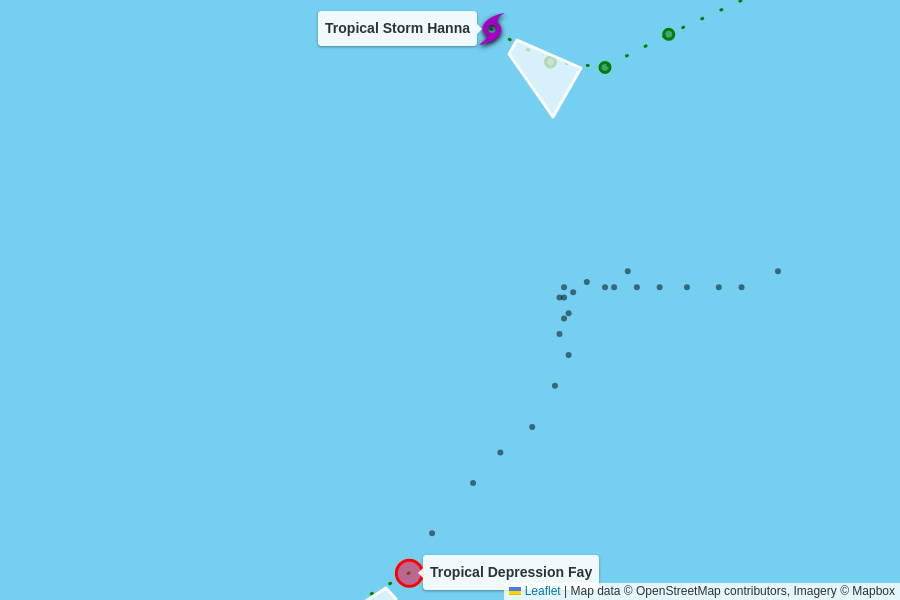
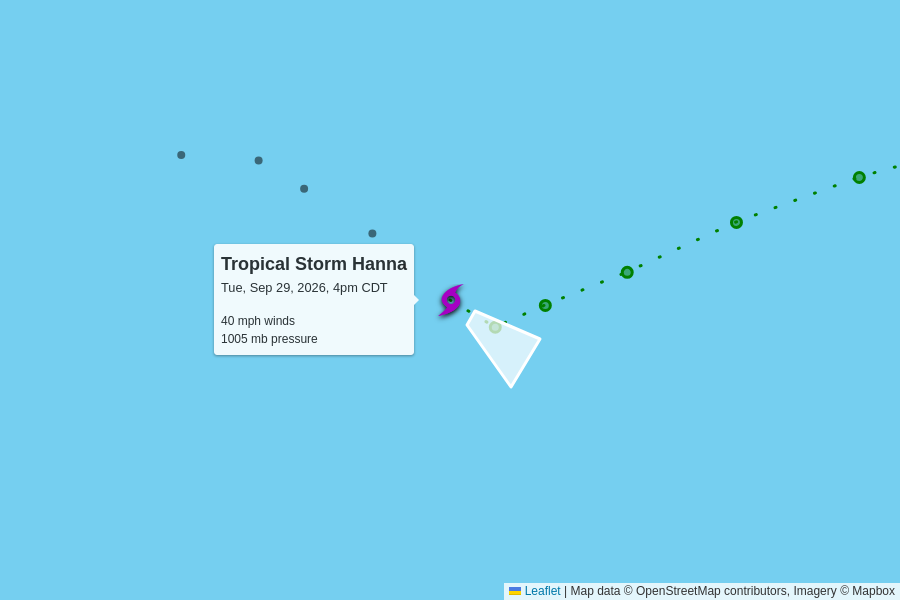
automatic update

diff --git a/docs/2026.html b/docs/2026.html
@@ -44,14 +44,60 @@
 
       <grid-container>
           <grid-row>
+            <script type="text/json" id="storm_data_AL062026">
+              {"pressure":[{"timestamp":"2026-09-19T15:00:00.000Z","value":1009},{"timestamp":"2026-09-19T21:00:00.000Z","value":1007},{"timestamp":"2026-09-20T03:00:00.000Z","value":1007},{"timestamp":"2026-09-20T09:00:00.000Z","value":1004},{"timestamp":"2026-09-20T15:00:00.000Z","value":1004},{"timestamp":"2026-09-20T21:00:00.000Z","value":999},{"timestamp":"2026-09-21T03:00:00.000Z","value":995},{"timestamp":"2026-09-21T09:00:00.000Z","value":997},{"timestamp":"2026-09-21T15:00:00.000Z","value":1000},{"timestamp":"2026-09-21T21:00:00.000Z","value":1004},{"timestamp":"2026-09-22T03:00:00.000Z","value":1008},{"timestamp":"2026-09-22T09:00:00.000Z","value":1009},{"timestamp":"2026-09-22T15:00:00.000Z","value":1010},{"timestamp":"2026-09-22T21:00:00.000Z","value":1011},{"timestamp":"2026-09-23T21:00:00.000Z","value":1011},{"timestamp":"2026-09-24T03:00:00.000Z","value":1010},{"timestamp":"2026-09-24T09:00:00.000Z","value":1010},{"timestamp":"2026-09-24T15:00:00.000Z","value":1005},{"timestamp":"2026-09-24T21:00:00.000Z","value":1005},{"timestamp":"2026-09-25T03:00:00.000Z","value":1005},{"timestamp":"2026-09-25T09:00:00.000Z","value":1004},{"timestamp":"2026-09-25T15:00:00.000Z","value":1002},{"timestamp":"2026-09-25T21:00:00.000Z","value":1004},{"timestamp":"2026-09-26T03:00:00.000Z","value":1006},{"timestamp":"2026-09-26T09:00:00.000Z","value":1009},{"timestamp":"2026-09-26T15:00:00.000Z","value":1009},{"timestamp":"2026-09-26T21:00:00.000Z","value":1009},{"timestamp":"2026-09-27T03:00:00.000Z","value":1010},{"timestamp":"2026-09-27T09:00:00.000Z","value":1010},{"timestamp":"2026-09-27T15:00:00.000Z","value":1010},{"timestamp":"2026-09-27T21:00:00.000Z","value":1011},{"timestamp":"2026-09-28T03:00:00.000Z","value":1012},{"timestamp":"2026-09-28T09:00:00.000Z","value":1012},{"timestamp":"2026-09-28T15:00:00.000Z","value":1011},{"timestamp":"2026-09-28T21:00:00.000Z","value":1011},{"timestamp":"2026-09-29T03:00:00.000Z","value":1008},{"timestamp":"2026-09-29T09:00:00.000Z","value":1008},{"timestamp":"2026-09-29T15:00:00.000Z","value":1010},{"timestamp":"2026-09-29T21:00:00.000Z","value":1011}],"wind":[{"timestamp":"2026-09-19T15:00:00.000Z","value":35},{"timestamp":"2026-09-19T21:00:00.000Z","value":35},{"timestamp":"2026-09-20T03:00:00.000Z","value":35},{"timestamp":"2026-09-20T09:00:00.000Z","value":45},{"timestamp":"2026-09-20T15:00:00.000Z","value":60},{"timestamp":"2026-09-20T21:00:00.000Z","value":65},{"timestamp":"2026-09-21T03:00:00.000Z","value":70},{"timestamp":"2026-09-21T09:00:00.000Z","value":65},{"timestamp":"2026-09-21T15:00:00.000Z","value":50},{"timestamp":"2026-09-21T21:00:00.000Z","value":45},{"timestamp":"2026-09-22T03:00:00.000Z","value":40},{"timestamp":"2026-09-22T09:00:00.000Z","value":40},{"timestamp":"2026-09-22T15:00:00.000Z","value":35},{"timestamp":"2026-09-22T21:00:00.000Z","value":35},{"timestamp":"2026-09-23T21:00:00.000Z","value":35},{"timestamp":"2026-09-24T03:00:00.000Z","value":40},{"timestamp":"2026-09-24T09:00:00.000Z","value":40},{"timestamp":"2026-09-24T15:00:00.000Z","value":50},{"timestamp":"2026-09-24T21:00:00.000Z","value":50},{"timestamp":"2026-09-25T03:00:00.000Z","value":50},{"timestamp":"2026-09-25T09:00:00.000Z","value":50},{"timestamp":"2026-09-25T15:00:00.000Z","value":60},{"timestamp":"2026-09-25T21:00:00.000Z","value":50},{"timestamp":"2026-09-26T03:00:00.000Z","value":40},{"timestamp":"2026-09-26T09:00:00.000Z","value":35},{"timestamp":"2026-09-26T15:00:00.000Z","value":35},{"timestamp":"2026-09-26T21:00:00.000Z","value":35},{"timestamp":"2026-09-27T03:00:00.000Z","value":35},{"timestamp":"2026-09-27T09:00:00.000Z","value":35},{"timestamp":"2026-09-27T15:00:00.000Z","value":35},{"timestamp":"2026-09-27T21:00:00.000Z","value":35},{"timestamp":"2026-09-28T03:00:00.000Z","value":30},{"timestamp":"2026-09-28T09:00:00.000Z","value":35},{"timestamp":"2026-09-28T15:00:00.000Z","value":35},{"timestamp":"2026-09-28T21:00:00.000Z","value":35},{"timestamp":"2026-09-29T03:00:00.000Z","value":40},{"timestamp":"2026-09-29T09:00:00.000Z","value":40},{"timestamp":"2026-09-29T15:00:00.000Z","value":35},{"timestamp":"2026-09-29T21:00:00.000Z","value":30}]}
+            </script>              <grid-container class="finished storm">
+                <grid-row onClick="toggle('storm_AL062026')">
+                  <h2>🏁 Fay</h2>
+                </grid-row>
+                <grid-column id="storm_AL062026" class="display-none flex-align--center">
+                  <figure>
+                    <img src="AL062026.png">
+                    <figcaption>
+                      Map data &copy; <a href="https://www.openstreetmap.org/copyright">OpenStreetMap</a> contributors, Imagery &copy; <a href="https://www.mapbox.com/">Mapbox</a> | <a href="https://www.mapbox.com/map-feedback/" target="_blank">Improve this map</a>
+                    </figcaption>
+                  </figure>
+                    <div class="chart-container">
+                      <h3>Maximum sustained winds</h3>
+                      <div>
+                        <canvas id="chart_wind_AL062026"></canvas>
+                      </div>
+                    </div>
+                    <div class="chart-container">
+                      <h3>Minimum central pressure</h3>
+                      <div style="width:100%;">
+                        <canvas id="chart_pressure_AL062026"></canvas>
+                      </div>
+                    </div>
+                  
+                  
+                  <script type="module">
+                    const data = JSON.parse(document.getElementById("storm_data_AL062026").textContent);
+                    
+                    if(data.wind) {
+                      const canvas = document.getElementById("chart_wind_AL062026");
+                      createChart(canvas, data.wind, "mph");
+                    }
+                    if(data.pressure) {
+                      const canvas = document.getElementById("chart_pressure_AL062026");
+                      createChart(canvas, data.pressure, "mb");
+                    }
+                    if(data.extents) {
+                      const canvas = document.getElementById("chart_extents_AL062026");
+                      createExtentChart(canvas, data.extents.tropical, data.extents.hurricane, "miles");
+                    }
+                  </script>
+                </grid-column>
+              </grid-container>          </grid-row>
+          <grid-row>
             <script type="text/json" id="storm_data_AL082026">
-              {"pressure":[{"timestamp":"2026-09-28T15:00:00.000Z","value":1006},{"timestamp":"2026-09-28T21:00:00.000Z","value":1006},{"timestamp":"2026-09-29T03:00:00.000Z","value":1002},{"timestamp":"2026-09-29T09:00:00.000Z","value":1002},{"timestamp":"2026-09-29T15:00:00.000Z","value":1004}],"wind":[{"timestamp":"2026-09-28T15:00:00.000Z","value":45},{"timestamp":"2026-09-28T21:00:00.000Z","value":45},{"timestamp":"2026-09-29T03:00:00.000Z","value":45},{"timestamp":"2026-09-29T09:00:00.000Z","value":45},{"timestamp":"2026-09-29T15:00:00.000Z","value":40}]}
+              {"pressure":[{"timestamp":"2026-09-28T15:00:00.000Z","value":1006},{"timestamp":"2026-09-28T21:00:00.000Z","value":1006},{"timestamp":"2026-09-29T03:00:00.000Z","value":1002},{"timestamp":"2026-09-29T09:00:00.000Z","value":1002},{"timestamp":"2026-09-29T15:00:00.000Z","value":1004},{"timestamp":"2026-09-29T21:00:00.000Z","value":1005}],"wind":[{"timestamp":"2026-09-28T15:00:00.000Z","value":45},{"timestamp":"2026-09-28T21:00:00.000Z","value":45},{"timestamp":"2026-09-29T03:00:00.000Z","value":45},{"timestamp":"2026-09-29T09:00:00.000Z","value":45},{"timestamp":"2026-09-29T15:00:00.000Z","value":40},{"timestamp":"2026-09-29T21:00:00.000Z","value":40}]}
             </script>              <grid-container class="storm">
                 <grid-row onClick="toggle('storm_AL082026')">
                   <h2>
                     Tropical Storm Hanna
                     <div class="updated">
-                      last updated <time datetime="2026-09-29T15:00:00.000Z">2026-09-29T15:00:00.000Z</time>
+                      last updated <time datetime="2026-09-29T21:00:00.000Z">2026-09-29T21:00:00.000Z</time>
                     </div>
                   </h2>
                 </grid-row>
@@ -69,12 +115,12 @@
                         <td>
                           40 mph
                           <br>
-                          -5 mph since last update
+                          0 mph since last update
                         </td>
                         <td>
-                          1004 mb
+                          1005 mb
                           <br>
-                          +2 mb since last update
+                          +1 mb since last update
                         </td>
                         <td>
                           12 mph to the southeast
@@ -126,95 +172,6 @@
                       }
                       if(data.extents) {
                         const canvas = document.getElementById("chart_extents_AL082026");
-                        createExtentChart(canvas, data.extents.tropical, data.extents.hurricane, "miles");
-                      }
-                    </script>
-                  </grid-column>
-                </grid-row>
-              </grid-container>          </grid-row>
-          <grid-row>
-            <script type="text/json" id="storm_data_AL062026">
-              {"pressure":[{"timestamp":"2026-09-19T15:00:00.000Z","value":1009},{"timestamp":"2026-09-19T21:00:00.000Z","value":1007},{"timestamp":"2026-09-20T03:00:00.000Z","value":1007},{"timestamp":"2026-09-20T09:00:00.000Z","value":1004},{"timestamp":"2026-09-20T15:00:00.000Z","value":1004},{"timestamp":"2026-09-20T21:00:00.000Z","value":999},{"timestamp":"2026-09-21T03:00:00.000Z","value":995},{"timestamp":"2026-09-21T09:00:00.000Z","value":997},{"timestamp":"2026-09-21T15:00:00.000Z","value":1000},{"timestamp":"2026-09-21T21:00:00.000Z","value":1004},{"timestamp":"2026-09-22T03:00:00.000Z","value":1008},{"timestamp":"2026-09-22T09:00:00.000Z","value":1009},{"timestamp":"2026-09-22T15:00:00.000Z","value":1010},{"timestamp":"2026-09-22T21:00:00.000Z","value":1011},{"timestamp":"2026-09-23T21:00:00.000Z","value":1011},{"timestamp":"2026-09-24T03:00:00.000Z","value":1010},{"timestamp":"2026-09-24T09:00:00.000Z","value":1010},{"timestamp":"2026-09-24T15:00:00.000Z","value":1005},{"timestamp":"2026-09-24T21:00:00.000Z","value":1005},{"timestamp":"2026-09-25T03:00:00.000Z","value":1005},{"timestamp":"2026-09-25T09:00:00.000Z","value":1004},{"timestamp":"2026-09-25T15:00:00.000Z","value":1002},{"timestamp":"2026-09-25T21:00:00.000Z","value":1004},{"timestamp":"2026-09-26T03:00:00.000Z","value":1006},{"timestamp":"2026-09-26T09:00:00.000Z","value":1009},{"timestamp":"2026-09-26T15:00:00.000Z","value":1009},{"timestamp":"2026-09-26T21:00:00.000Z","value":1009},{"timestamp":"2026-09-27T03:00:00.000Z","value":1010},{"timestamp":"2026-09-27T09:00:00.000Z","value":1010},{"timestamp":"2026-09-27T15:00:00.000Z","value":1010},{"timestamp":"2026-09-27T21:00:00.000Z","value":1011},{"timestamp":"2026-09-28T03:00:00.000Z","value":1012},{"timestamp":"2026-09-28T09:00:00.000Z","value":1012},{"timestamp":"2026-09-28T15:00:00.000Z","value":1011},{"timestamp":"2026-09-28T21:00:00.000Z","value":1011},{"timestamp":"2026-09-29T03:00:00.000Z","value":1008},{"timestamp":"2026-09-29T09:00:00.000Z","value":1008},{"timestamp":"2026-09-29T15:00:00.000Z","value":1010}],"wind":[{"timestamp":"2026-09-19T15:00:00.000Z","value":35},{"timestamp":"2026-09-19T21:00:00.000Z","value":35},{"timestamp":"2026-09-20T03:00:00.000Z","value":35},{"timestamp":"2026-09-20T09:00:00.000Z","value":45},{"timestamp":"2026-09-20T15:00:00.000Z","value":60},{"timestamp":"2026-09-20T21:00:00.000Z","value":65},{"timestamp":"2026-09-21T03:00:00.000Z","value":70},{"timestamp":"2026-09-21T09:00:00.000Z","value":65},{"timestamp":"2026-09-21T15:00:00.000Z","value":50},{"timestamp":"2026-09-21T21:00:00.000Z","value":45},{"timestamp":"2026-09-22T03:00:00.000Z","value":40},{"timestamp":"2026-09-22T09:00:00.000Z","value":40},{"timestamp":"2026-09-22T15:00:00.000Z","value":35},{"timestamp":"2026-09-22T21:00:00.000Z","value":35},{"timestamp":"2026-09-23T21:00:00.000Z","value":35},{"timestamp":"2026-09-24T03:00:00.000Z","value":40},{"timestamp":"2026-09-24T09:00:00.000Z","value":40},{"timestamp":"2026-09-24T15:00:00.000Z","value":50},{"timestamp":"2026-09-24T21:00:00.000Z","value":50},{"timestamp":"2026-09-25T03:00:00.000Z","value":50},{"timestamp":"2026-09-25T09:00:00.000Z","value":50},{"timestamp":"2026-09-25T15:00:00.000Z","value":60},{"timestamp":"2026-09-25T21:00:00.000Z","value":50},{"timestamp":"2026-09-26T03:00:00.000Z","value":40},{"timestamp":"2026-09-26T09:00:00.000Z","value":35},{"timestamp":"2026-09-26T15:00:00.000Z","value":35},{"timestamp":"2026-09-26T21:00:00.000Z","value":35},{"timestamp":"2026-09-27T03:00:00.000Z","value":35},{"timestamp":"2026-09-27T09:00:00.000Z","value":35},{"timestamp":"2026-09-27T15:00:00.000Z","value":35},{"timestamp":"2026-09-27T21:00:00.000Z","value":35},{"timestamp":"2026-09-28T03:00:00.000Z","value":30},{"timestamp":"2026-09-28T09:00:00.000Z","value":35},{"timestamp":"2026-09-28T15:00:00.000Z","value":35},{"timestamp":"2026-09-28T21:00:00.000Z","value":35},{"timestamp":"2026-09-29T03:00:00.000Z","value":40},{"timestamp":"2026-09-29T09:00:00.000Z","value":40},{"timestamp":"2026-09-29T15:00:00.000Z","value":35}]}
-            </script>              <grid-container class="storm">
-                <grid-row onClick="toggle('storm_AL062026')">
-                  <h2>
-                    Tropical Depression Fay
-                    <div class="updated">
-                      last updated <time datetime="2026-09-29T15:00:00.000Z">2026-09-29T15:00:00.000Z</time>
-                    </div>
-                  </h2>
-                </grid-row>
-                <grid-row id="storm_AL062026">
-                  <grid-column>
-                    <table>
-                      <tr>
-                        <th>wind speed</th>
-                        <th>central pressure</th>
-                        <th>movement</th>
-                        <th>data (CSV)</th>
-                        <th>National Hurricane Center</th>
-                      </tr>
-                      <tr>
-                        <td>
-                          35 mph
-                          <br>
-                          -5 mph since last update
-                        </td>
-                        <td>
-                          1010 mb
-                          <br>
-                          +2 mb since last update
-                        </td>
-                        <td>
-                          12 mph to the southwest
-                          <br>
-                          <span style="display: inline-block; font-size: 1.5em; transform: rotate(225deg);">↑</span>
-                        </td>
-                        <td>
-                          <a href="https://raw.githubusercontent.com/mgwalker/atlantic-hurricanes/main/data/csv/AL062026.csv">AL062026.csv</a>
-                        </td>
-                        <td>
-                          <a href="https://www.nhc.noaa.gov/archive/2026/FAY.shtml?">NHC advisories</a>
-                        </td>
-                      </tr>
-                      <tr>
-                        <td colspan="5">
-                        </td>
-                      </tr>
-                    </table>
-                    <figure>
-                      <img src="AL062026.png">
-                      <figcaption>
-                        Map data &copy; <a href="https://www.openstreetmap.org/copyright">OpenStreetMap</a> contributors, Imagery &copy; <a href="https://www.mapbox.com/">Mapbox</a> | <a href="https://www.mapbox.com/map-feedback/" target="_blank">Improve this map</a>
-                      </figcaption>
-                    </figure>
-                      <div class="chart-container">
-                        <h3>Maximum sustained winds</h3>
-                        <div>
-                          <canvas id="chart_wind_AL062026"></canvas>
-                        </div>
-                      </div>
-                      <div class="chart-container">
-                        <h3>Minimum central pressure</h3>
-                        <div style="width:100%;">
-                          <canvas id="chart_pressure_AL062026"></canvas>
-                        </div>
-                      </div>
-                    
-                    
-                    <script type="module">
-                      const data = JSON.parse(document.getElementById("storm_data_AL062026").textContent);
-                      
-                      if(data.wind) {
-                        const canvas = document.getElementById("chart_wind_AL062026");
-                        createChart(canvas, data.wind, "mph");
-                      }
-                      if(data.pressure) {
-                        const canvas = document.getElementById("chart_pressure_AL062026");
-                        createChart(canvas, data.pressure, "mb");
-                      }
-                      if(data.extents) {
-                        const canvas = document.getElementById("chart_extents_AL062026");
                         createExtentChart(canvas, data.extents.tropical, data.extents.hurricane, "miles");
                       }
                     </script>

diff --git a/docs/index.html b/docs/index.html
@@ -44,14 +44,60 @@
 
       <grid-container>
           <grid-row>
+            <script type="text/json" id="storm_data_AL062026">
+              {"pressure":[{"timestamp":"2026-09-19T15:00:00.000Z","value":1009},{"timestamp":"2026-09-19T21:00:00.000Z","value":1007},{"timestamp":"2026-09-20T03:00:00.000Z","value":1007},{"timestamp":"2026-09-20T09:00:00.000Z","value":1004},{"timestamp":"2026-09-20T15:00:00.000Z","value":1004},{"timestamp":"2026-09-20T21:00:00.000Z","value":999},{"timestamp":"2026-09-21T03:00:00.000Z","value":995},{"timestamp":"2026-09-21T09:00:00.000Z","value":997},{"timestamp":"2026-09-21T15:00:00.000Z","value":1000},{"timestamp":"2026-09-21T21:00:00.000Z","value":1004},{"timestamp":"2026-09-22T03:00:00.000Z","value":1008},{"timestamp":"2026-09-22T09:00:00.000Z","value":1009},{"timestamp":"2026-09-22T15:00:00.000Z","value":1010},{"timestamp":"2026-09-22T21:00:00.000Z","value":1011},{"timestamp":"2026-09-23T21:00:00.000Z","value":1011},{"timestamp":"2026-09-24T03:00:00.000Z","value":1010},{"timestamp":"2026-09-24T09:00:00.000Z","value":1010},{"timestamp":"2026-09-24T15:00:00.000Z","value":1005},{"timestamp":"2026-09-24T21:00:00.000Z","value":1005},{"timestamp":"2026-09-25T03:00:00.000Z","value":1005},{"timestamp":"2026-09-25T09:00:00.000Z","value":1004},{"timestamp":"2026-09-25T15:00:00.000Z","value":1002},{"timestamp":"2026-09-25T21:00:00.000Z","value":1004},{"timestamp":"2026-09-26T03:00:00.000Z","value":1006},{"timestamp":"2026-09-26T09:00:00.000Z","value":1009},{"timestamp":"2026-09-26T15:00:00.000Z","value":1009},{"timestamp":"2026-09-26T21:00:00.000Z","value":1009},{"timestamp":"2026-09-27T03:00:00.000Z","value":1010},{"timestamp":"2026-09-27T09:00:00.000Z","value":1010},{"timestamp":"2026-09-27T15:00:00.000Z","value":1010},{"timestamp":"2026-09-27T21:00:00.000Z","value":1011},{"timestamp":"2026-09-28T03:00:00.000Z","value":1012},{"timestamp":"2026-09-28T09:00:00.000Z","value":1012},{"timestamp":"2026-09-28T15:00:00.000Z","value":1011},{"timestamp":"2026-09-28T21:00:00.000Z","value":1011},{"timestamp":"2026-09-29T03:00:00.000Z","value":1008},{"timestamp":"2026-09-29T09:00:00.000Z","value":1008},{"timestamp":"2026-09-29T15:00:00.000Z","value":1010},{"timestamp":"2026-09-29T21:00:00.000Z","value":1011}],"wind":[{"timestamp":"2026-09-19T15:00:00.000Z","value":35},{"timestamp":"2026-09-19T21:00:00.000Z","value":35},{"timestamp":"2026-09-20T03:00:00.000Z","value":35},{"timestamp":"2026-09-20T09:00:00.000Z","value":45},{"timestamp":"2026-09-20T15:00:00.000Z","value":60},{"timestamp":"2026-09-20T21:00:00.000Z","value":65},{"timestamp":"2026-09-21T03:00:00.000Z","value":70},{"timestamp":"2026-09-21T09:00:00.000Z","value":65},{"timestamp":"2026-09-21T15:00:00.000Z","value":50},{"timestamp":"2026-09-21T21:00:00.000Z","value":45},{"timestamp":"2026-09-22T03:00:00.000Z","value":40},{"timestamp":"2026-09-22T09:00:00.000Z","value":40},{"timestamp":"2026-09-22T15:00:00.000Z","value":35},{"timestamp":"2026-09-22T21:00:00.000Z","value":35},{"timestamp":"2026-09-23T21:00:00.000Z","value":35},{"timestamp":"2026-09-24T03:00:00.000Z","value":40},{"timestamp":"2026-09-24T09:00:00.000Z","value":40},{"timestamp":"2026-09-24T15:00:00.000Z","value":50},{"timestamp":"2026-09-24T21:00:00.000Z","value":50},{"timestamp":"2026-09-25T03:00:00.000Z","value":50},{"timestamp":"2026-09-25T09:00:00.000Z","value":50},{"timestamp":"2026-09-25T15:00:00.000Z","value":60},{"timestamp":"2026-09-25T21:00:00.000Z","value":50},{"timestamp":"2026-09-26T03:00:00.000Z","value":40},{"timestamp":"2026-09-26T09:00:00.000Z","value":35},{"timestamp":"2026-09-26T15:00:00.000Z","value":35},{"timestamp":"2026-09-26T21:00:00.000Z","value":35},{"timestamp":"2026-09-27T03:00:00.000Z","value":35},{"timestamp":"2026-09-27T09:00:00.000Z","value":35},{"timestamp":"2026-09-27T15:00:00.000Z","value":35},{"timestamp":"2026-09-27T21:00:00.000Z","value":35},{"timestamp":"2026-09-28T03:00:00.000Z","value":30},{"timestamp":"2026-09-28T09:00:00.000Z","value":35},{"timestamp":"2026-09-28T15:00:00.000Z","value":35},{"timestamp":"2026-09-28T21:00:00.000Z","value":35},{"timestamp":"2026-09-29T03:00:00.000Z","value":40},{"timestamp":"2026-09-29T09:00:00.000Z","value":40},{"timestamp":"2026-09-29T15:00:00.000Z","value":35},{"timestamp":"2026-09-29T21:00:00.000Z","value":30}]}
+            </script>              <grid-container class="finished storm">
+                <grid-row onClick="toggle('storm_AL062026')">
+                  <h2>🏁 Fay</h2>
+                </grid-row>
+                <grid-column id="storm_AL062026" class="display-none flex-align--center">
+                  <figure>
+                    <img src="AL062026.png">
+                    <figcaption>
+                      Map data &copy; <a href="https://www.openstreetmap.org/copyright">OpenStreetMap</a> contributors, Imagery &copy; <a href="https://www.mapbox.com/">Mapbox</a> | <a href="https://www.mapbox.com/map-feedback/" target="_blank">Improve this map</a>
+                    </figcaption>
+                  </figure>
+                    <div class="chart-container">
+                      <h3>Maximum sustained winds</h3>
+                      <div>
+                        <canvas id="chart_wind_AL062026"></canvas>
+                      </div>
+                    </div>
+                    <div class="chart-container">
+                      <h3>Minimum central pressure</h3>
+                      <div style="width:100%;">
+                        <canvas id="chart_pressure_AL062026"></canvas>
+                      </div>
+                    </div>
+                  
+                  
+                  <script type="module">
+                    const data = JSON.parse(document.getElementById("storm_data_AL062026").textContent);
+                    
+                    if(data.wind) {
+                      const canvas = document.getElementById("chart_wind_AL062026");
+                      createChart(canvas, data.wind, "mph");
+                    }
+                    if(data.pressure) {
+                      const canvas = document.getElementById("chart_pressure_AL062026");
+                      createChart(canvas, data.pressure, "mb");
+                    }
+                    if(data.extents) {
+                      const canvas = document.getElementById("chart_extents_AL062026");
+                      createExtentChart(canvas, data.extents.tropical, data.extents.hurricane, "miles");
+                    }
+                  </script>
+                </grid-column>
+              </grid-container>          </grid-row>
+          <grid-row>
             <script type="text/json" id="storm_data_AL082026">
-              {"pressure":[{"timestamp":"2026-09-28T15:00:00.000Z","value":1006},{"timestamp":"2026-09-28T21:00:00.000Z","value":1006},{"timestamp":"2026-09-29T03:00:00.000Z","value":1002},{"timestamp":"2026-09-29T09:00:00.000Z","value":1002},{"timestamp":"2026-09-29T15:00:00.000Z","value":1004}],"wind":[{"timestamp":"2026-09-28T15:00:00.000Z","value":45},{"timestamp":"2026-09-28T21:00:00.000Z","value":45},{"timestamp":"2026-09-29T03:00:00.000Z","value":45},{"timestamp":"2026-09-29T09:00:00.000Z","value":45},{"timestamp":"2026-09-29T15:00:00.000Z","value":40}]}
+              {"pressure":[{"timestamp":"2026-09-28T15:00:00.000Z","value":1006},{"timestamp":"2026-09-28T21:00:00.000Z","value":1006},{"timestamp":"2026-09-29T03:00:00.000Z","value":1002},{"timestamp":"2026-09-29T09:00:00.000Z","value":1002},{"timestamp":"2026-09-29T15:00:00.000Z","value":1004},{"timestamp":"2026-09-29T21:00:00.000Z","value":1005}],"wind":[{"timestamp":"2026-09-28T15:00:00.000Z","value":45},{"timestamp":"2026-09-28T21:00:00.000Z","value":45},{"timestamp":"2026-09-29T03:00:00.000Z","value":45},{"timestamp":"2026-09-29T09:00:00.000Z","value":45},{"timestamp":"2026-09-29T15:00:00.000Z","value":40},{"timestamp":"2026-09-29T21:00:00.000Z","value":40}]}
             </script>              <grid-container class="storm">
                 <grid-row onClick="toggle('storm_AL082026')">
                   <h2>
                     Tropical Storm Hanna
                     <div class="updated">
-                      last updated <time datetime="2026-09-29T15:00:00.000Z">2026-09-29T15:00:00.000Z</time>
+                      last updated <time datetime="2026-09-29T21:00:00.000Z">2026-09-29T21:00:00.000Z</time>
                     </div>
                   </h2>
                 </grid-row>
@@ -69,12 +115,12 @@
                         <td>
                           40 mph
                           <br>
-                          -5 mph since last update
+                          0 mph since last update
                         </td>
                         <td>
-                          1004 mb
+                          1005 mb
                           <br>
-                          +2 mb since last update
+                          +1 mb since last update
                         </td>
                         <td>
                           12 mph to the southeast
@@ -126,95 +172,6 @@
                       }
                       if(data.extents) {
                         const canvas = document.getElementById("chart_extents_AL082026");
-                        createExtentChart(canvas, data.extents.tropical, data.extents.hurricane, "miles");
-                      }
-                    </script>
-                  </grid-column>
-                </grid-row>
-              </grid-container>          </grid-row>
-          <grid-row>
-            <script type="text/json" id="storm_data_AL062026">
-              {"pressure":[{"timestamp":"2026-09-19T15:00:00.000Z","value":1009},{"timestamp":"2026-09-19T21:00:00.000Z","value":1007},{"timestamp":"2026-09-20T03:00:00.000Z","value":1007},{"timestamp":"2026-09-20T09:00:00.000Z","value":1004},{"timestamp":"2026-09-20T15:00:00.000Z","value":1004},{"timestamp":"2026-09-20T21:00:00.000Z","value":999},{"timestamp":"2026-09-21T03:00:00.000Z","value":995},{"timestamp":"2026-09-21T09:00:00.000Z","value":997},{"timestamp":"2026-09-21T15:00:00.000Z","value":1000},{"timestamp":"2026-09-21T21:00:00.000Z","value":1004},{"timestamp":"2026-09-22T03:00:00.000Z","value":1008},{"timestamp":"2026-09-22T09:00:00.000Z","value":1009},{"timestamp":"2026-09-22T15:00:00.000Z","value":1010},{"timestamp":"2026-09-22T21:00:00.000Z","value":1011},{"timestamp":"2026-09-23T21:00:00.000Z","value":1011},{"timestamp":"2026-09-24T03:00:00.000Z","value":1010},{"timestamp":"2026-09-24T09:00:00.000Z","value":1010},{"timestamp":"2026-09-24T15:00:00.000Z","value":1005},{"timestamp":"2026-09-24T21:00:00.000Z","value":1005},{"timestamp":"2026-09-25T03:00:00.000Z","value":1005},{"timestamp":"2026-09-25T09:00:00.000Z","value":1004},{"timestamp":"2026-09-25T15:00:00.000Z","value":1002},{"timestamp":"2026-09-25T21:00:00.000Z","value":1004},{"timestamp":"2026-09-26T03:00:00.000Z","value":1006},{"timestamp":"2026-09-26T09:00:00.000Z","value":1009},{"timestamp":"2026-09-26T15:00:00.000Z","value":1009},{"timestamp":"2026-09-26T21:00:00.000Z","value":1009},{"timestamp":"2026-09-27T03:00:00.000Z","value":1010},{"timestamp":"2026-09-27T09:00:00.000Z","value":1010},{"timestamp":"2026-09-27T15:00:00.000Z","value":1010},{"timestamp":"2026-09-27T21:00:00.000Z","value":1011},{"timestamp":"2026-09-28T03:00:00.000Z","value":1012},{"timestamp":"2026-09-28T09:00:00.000Z","value":1012},{"timestamp":"2026-09-28T15:00:00.000Z","value":1011},{"timestamp":"2026-09-28T21:00:00.000Z","value":1011},{"timestamp":"2026-09-29T03:00:00.000Z","value":1008},{"timestamp":"2026-09-29T09:00:00.000Z","value":1008},{"timestamp":"2026-09-29T15:00:00.000Z","value":1010}],"wind":[{"timestamp":"2026-09-19T15:00:00.000Z","value":35},{"timestamp":"2026-09-19T21:00:00.000Z","value":35},{"timestamp":"2026-09-20T03:00:00.000Z","value":35},{"timestamp":"2026-09-20T09:00:00.000Z","value":45},{"timestamp":"2026-09-20T15:00:00.000Z","value":60},{"timestamp":"2026-09-20T21:00:00.000Z","value":65},{"timestamp":"2026-09-21T03:00:00.000Z","value":70},{"timestamp":"2026-09-21T09:00:00.000Z","value":65},{"timestamp":"2026-09-21T15:00:00.000Z","value":50},{"timestamp":"2026-09-21T21:00:00.000Z","value":45},{"timestamp":"2026-09-22T03:00:00.000Z","value":40},{"timestamp":"2026-09-22T09:00:00.000Z","value":40},{"timestamp":"2026-09-22T15:00:00.000Z","value":35},{"timestamp":"2026-09-22T21:00:00.000Z","value":35},{"timestamp":"2026-09-23T21:00:00.000Z","value":35},{"timestamp":"2026-09-24T03:00:00.000Z","value":40},{"timestamp":"2026-09-24T09:00:00.000Z","value":40},{"timestamp":"2026-09-24T15:00:00.000Z","value":50},{"timestamp":"2026-09-24T21:00:00.000Z","value":50},{"timestamp":"2026-09-25T03:00:00.000Z","value":50},{"timestamp":"2026-09-25T09:00:00.000Z","value":50},{"timestamp":"2026-09-25T15:00:00.000Z","value":60},{"timestamp":"2026-09-25T21:00:00.000Z","value":50},{"timestamp":"2026-09-26T03:00:00.000Z","value":40},{"timestamp":"2026-09-26T09:00:00.000Z","value":35},{"timestamp":"2026-09-26T15:00:00.000Z","value":35},{"timestamp":"2026-09-26T21:00:00.000Z","value":35},{"timestamp":"2026-09-27T03:00:00.000Z","value":35},{"timestamp":"2026-09-27T09:00:00.000Z","value":35},{"timestamp":"2026-09-27T15:00:00.000Z","value":35},{"timestamp":"2026-09-27T21:00:00.000Z","value":35},{"timestamp":"2026-09-28T03:00:00.000Z","value":30},{"timestamp":"2026-09-28T09:00:00.000Z","value":35},{"timestamp":"2026-09-28T15:00:00.000Z","value":35},{"timestamp":"2026-09-28T21:00:00.000Z","value":35},{"timestamp":"2026-09-29T03:00:00.000Z","value":40},{"timestamp":"2026-09-29T09:00:00.000Z","value":40},{"timestamp":"2026-09-29T15:00:00.000Z","value":35}]}
-            </script>              <grid-container class="storm">
-                <grid-row onClick="toggle('storm_AL062026')">
-                  <h2>
-                    Tropical Depression Fay
-                    <div class="updated">
-                      last updated <time datetime="2026-09-29T15:00:00.000Z">2026-09-29T15:00:00.000Z</time>
-                    </div>
-                  </h2>
-                </grid-row>
-                <grid-row id="storm_AL062026">
-                  <grid-column>
-                    <table>
-                      <tr>
-                        <th>wind speed</th>
-                        <th>central pressure</th>
-                        <th>movement</th>
-                        <th>data (CSV)</th>
-                        <th>National Hurricane Center</th>
-                      </tr>
-                      <tr>
-                        <td>
-                          35 mph
-                          <br>
-                          -5 mph since last update
-                        </td>
-                        <td>
-                          1010 mb
-                          <br>
-                          +2 mb since last update
-                        </td>
-                        <td>
-                          12 mph to the southwest
-                          <br>
-                          <span style="display: inline-block; font-size: 1.5em; transform: rotate(225deg);">↑</span>
-                        </td>
-                        <td>
-                          <a href="https://raw.githubusercontent.com/mgwalker/atlantic-hurricanes/main/data/csv/AL062026.csv">AL062026.csv</a>
-                        </td>
-                        <td>
-                          <a href="https://www.nhc.noaa.gov/archive/2026/FAY.shtml?">NHC advisories</a>
-                        </td>
-                      </tr>
-                      <tr>
-                        <td colspan="5">
-                        </td>
-                      </tr>
-                    </table>
-                    <figure>
-                      <img src="AL062026.png">
-                      <figcaption>
-                        Map data &copy; <a href="https://www.openstreetmap.org/copyright">OpenStreetMap</a> contributors, Imagery &copy; <a href="https://www.mapbox.com/">Mapbox</a> | <a href="https://www.mapbox.com/map-feedback/" target="_blank">Improve this map</a>
-                      </figcaption>
-                    </figure>
-                      <div class="chart-container">
-                        <h3>Maximum sustained winds</h3>
-                        <div>
-                          <canvas id="chart_wind_AL062026"></canvas>
-                        </div>
-                      </div>
-                      <div class="chart-container">
-                        <h3>Minimum central pressure</h3>
-                        <div style="width:100%;">
-                          <canvas id="chart_pressure_AL062026"></canvas>
-                        </div>
-                      </div>
-                    
-                    
-                    <script type="module">
-                      const data = JSON.parse(document.getElementById("storm_data_AL062026").textContent);
-                      
-                      if(data.wind) {
-                        const canvas = document.getElementById("chart_wind_AL062026");
-                        createChart(canvas, data.wind, "mph");
-                      }
-                      if(data.pressure) {
-                        const canvas = document.getElementById("chart_pressure_AL062026");
-                        createChart(canvas, data.pressure, "mb");
-                      }
-                      if(data.extents) {
-                        const canvas = document.getElementById("chart_extents_AL062026");
                         createExtentChart(canvas, data.extents.tropical, data.extents.hurricane, "miles");
                       }
                     </script>
